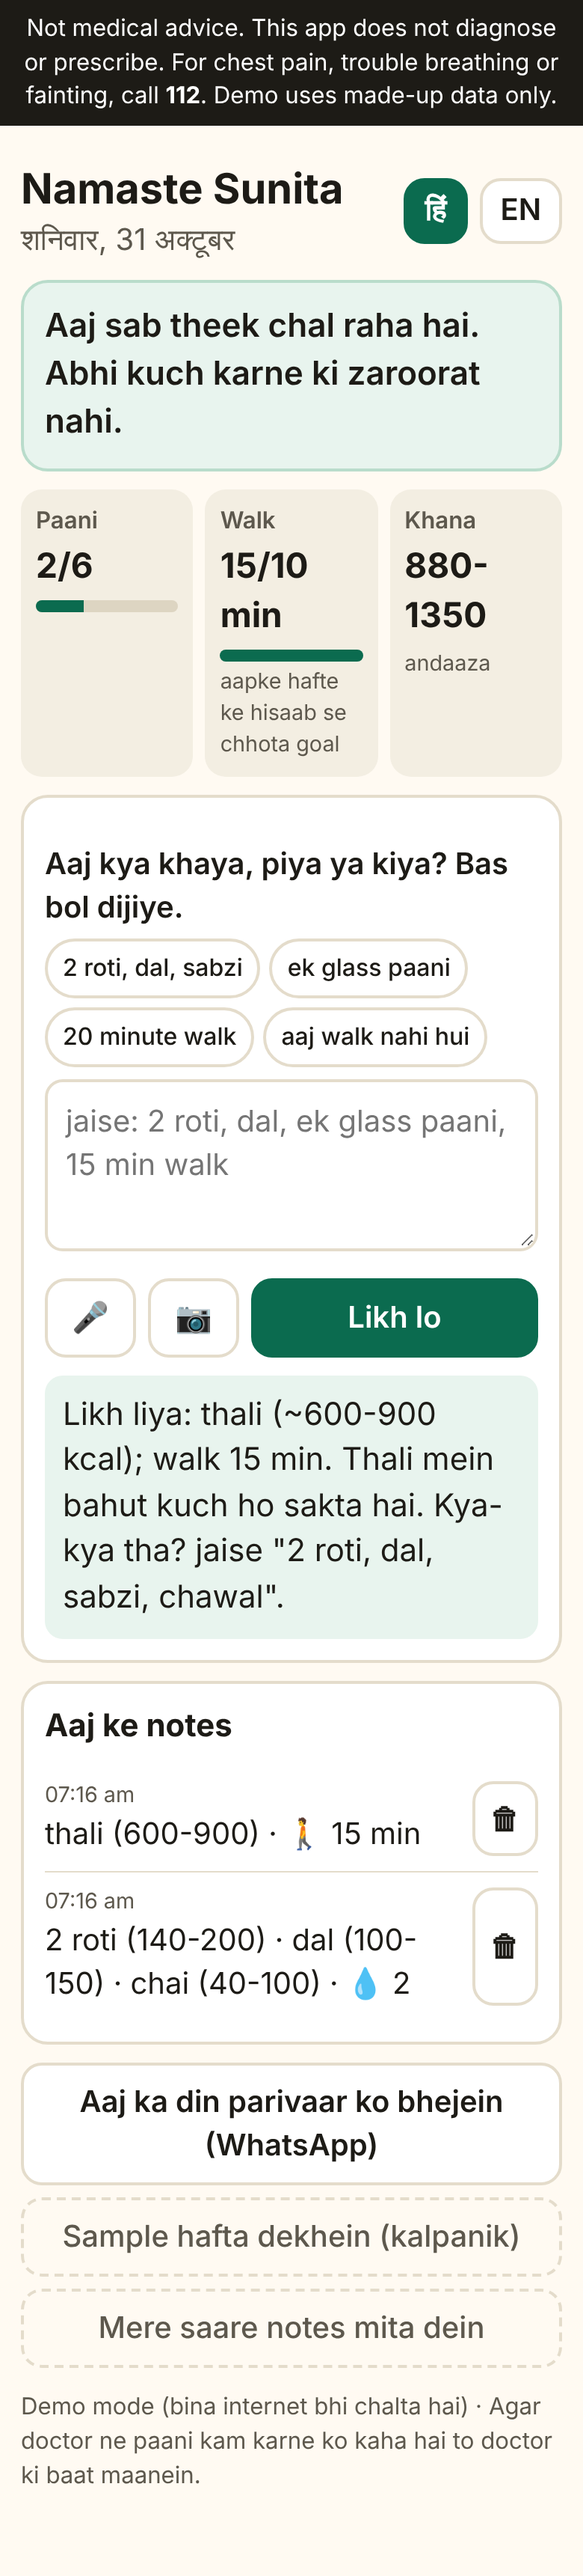
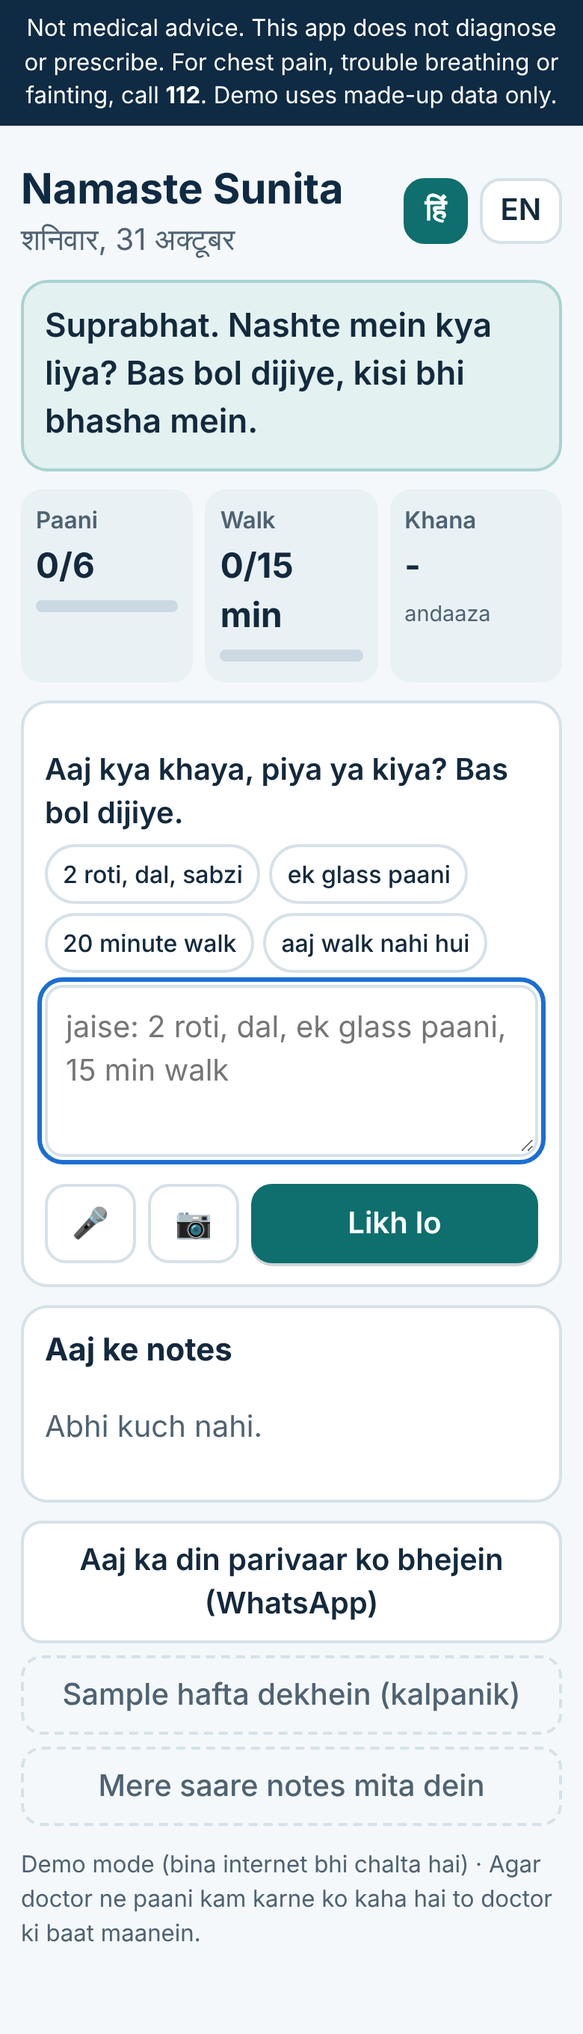
Redesign welcome page with navy/teal professional palette and value points
Claude-Session: https://claude.ai/code/session_01KefykX8PCZb4duXx1vCz83

Changed region(s): [[0.0, 0.0, 1.0, 0.989]]

diff --git a/style.css b/style.css
@@ -1,9 +1,9 @@
-:root{--bg:#fffaf2;--ink:#1d1b16;--mut:#5d584d;--card:#fff;--line:#e4dccb;--pri:#0b6b4f;--priInk:#fff;--warn:#8a4b00;--warnBg:#fff1d6;--red:#9b1c1c;--redBg:#fde8e8;--tile:#f3eee2}
+:root{--bg:#f4f8fa;--ink:#13293d;--mut:#4f6272;--card:#fff;--line:#d6e1e8;--pri:#0e6f6e;--priInk:#fff;--navy:#0f2a43;--warn:#8a4b00;--warnBg:#fff4de;--red:#9b1c1c;--redBg:#fde8e8;--tile:#e9f1f5}
 *{box-sizing:border-box}
 html{font-size:20px}
 body{margin:0;background:var(--bg);color:var(--ink);font:1rem/1.45 system-ui,-apple-system,"Segoe UI",Roboto,"Noto Sans Devanagari",sans-serif}
 .wrap{max-width:560px;margin:0 auto;padding:12px 14px 40px}
-.notice{background:#1d1b16;color:#fff;font-size:.78rem;padding:8px 12px;text-align:center}
+.notice{background:var(--navy);color:#fff;font-size:.78rem;padding:8px 12px;text-align:center}
 h1{font-size:2rem;line-height:1.15;margin:.6em 0 .2em}h1 small{font-size:1.1rem;color:var(--mut);font-weight:500}
 h2{font-size:1.05rem;margin:0 0 .5em}
 .lead{font-size:1.1rem}
@@ -21,16 +21,31 @@ button:disabled{opacity:.55}
 .top{display:flex;justify-content:space-between;align-items:center;margin:10px 0}
 .hello{font-size:1.4rem;font-weight:700}.muted,.tiny,.why{color:var(--mut)}.tiny{font-size:.78rem}.why{font-size:.72rem;margin-top:4px}
 .card{background:var(--card);border:2px solid var(--line);border-radius:18px;padding:14px;margin:12px 0}
-.nudge{background:#e8f4ee;border-color:#b9dccb;font-size:1.1rem;font-weight:600}
+.nudge{background:#e3f1f0;border-color:#a9d3d1;font-size:1.1rem;font-weight:600}
 .nudge.warn{background:var(--warnBg);border-color:#f0cf93}
 .tiles{display:grid;grid-template-columns:repeat(3,1fr);gap:8px}
 .tile{background:var(--tile);border-radius:14px;padding:10px}.tile .k{font-size:.78rem;color:var(--mut);font-weight:600}.tile .v{font-size:1.15rem;font-weight:700;margin:2px 0 6px}
-.bar{height:8px;background:#ddd5c2;border-radius:99px;overflow:hidden}.bar i{display:block;height:100%;width:0;background:var(--pri);transition:width .4s}
+.bar{height:8px;background:#cbd9e2;border-radius:99px;overflow:hidden}.bar i{display:block;height:100%;width:0;background:var(--pri);transition:width .4s}
 .row{display:flex;gap:8px;margin-top:10px}.row .primary{flex:1}
 .chips{display:flex;flex-wrap:wrap;gap:6px;margin-bottom:8px}.chips button{min-height:40px;font-size:.8rem;font-weight:500;padding:4px 10px;border-radius:99px}
-.reply{margin-top:12px;padding:12px;border-radius:12px;background:#e8f4ee;font-size:1.05rem}
+.reply{margin-top:12px;padding:12px;border-radius:12px;background:#e3f1f0;font-size:1.05rem}
 .reply.amber{background:var(--warnBg);color:#4a2800}.reply.red{background:var(--redBg);color:var(--red);font-weight:700;border:2px solid var(--red)}
 .log{list-style:none;padding:0;margin:0}.log li{display:flex;justify-content:space-between;gap:8px;padding:10px 0;border-top:1px solid var(--line)}.log li:first-child{border-top:0}
 .log .t{font-size:.72rem;color:var(--mut)}.log button{min-height:44px;min-width:44px;padding:0 10px}
 .actions{display:grid;gap:8px;margin-top:6px}
 @media (prefers-reduced-motion:reduce){*{transition:none!important}}
+
+/* ---- Welcome page ---- */
+.welcome{margin:-12px -14px 0}
+.hero{background:linear-gradient(160deg,var(--navy) 0%,#0e5a68 100%);color:#fff;padding:34px 22px 56px;border-radius:0 0 28px 28px}
+.logo{width:56px;height:56px;display:block;box-shadow:0 6px 18px rgba(0,0,0,.25);border-radius:14px}
+.brand{margin-top:14px;font-size:.85rem;letter-spacing:.14em;text-transform:uppercase;opacity:.85;font-weight:600}
+.hero h1{font-size:1.85rem;line-height:1.2;margin:.35em 0 .4em;font-weight:750}
+.hero .lead{margin:0;font-size:1.02rem;opacity:.92}
+.points{list-style:none;margin:-30px 14px 0;padding:0;display:grid;gap:8px}
+.points li{background:#fff;border:1px solid var(--line);border-radius:14px;padding:12px 14px;display:flex;flex-direction:column;box-shadow:0 2px 8px rgba(15,42,67,.06);border-left:5px solid var(--pri)}
+.points b{font-size:1rem;color:var(--navy)}.points span{font-size:.88rem;color:var(--mut)}
+.welcome .form{margin:14px}
+.full{width:100%;margin-top:6px}
+button.primary{box-shadow:0 2px 0 rgba(15,42,67,.2)}
+.hello{color:var(--navy)}

diff --git a/app.js b/app.js
@@ -6,13 +6,13 @@
   const $$ = (s) => [...document.querySelectorAll(s)];
 
   const TXT = {
-    en: { onb_lead: 'Tell me about your day, the way you would tell family. I will keep the notes.', onb_name: 'Your name (optional)', onb_start: 'Start', onb_priv: 'Your notes stay on this phone. Nothing to sign up for.',
+    en: { onb_h: 'Your day, in your own words.', p1h: 'Just speak', p1: 'Hindi, Hinglish or English. No forms.', p2h: 'Gentle reminders', p2: 'One small nudge at the right time.', p3h: 'Safe by design', p3: 'Never diagnoses. Urgent signs point to 112.', onb_lead: 'Tell me about your day, the way you would tell family. I will keep the notes.', onb_name: 'Your name (optional)', onb_start: 'Start', onb_priv: 'Your notes stay on this phone. Nothing to sign up for.',
       water: 'Water', walk: 'Walk', food: 'Food', rough: 'rough estimate', say: 'What did you eat, drink or do today? Just say it.', send: 'Log it', today: "Today's notes", empty: 'Nothing yet.',
       share: 'Share today with family (WhatsApp)', sample: 'Load sample week (made-up)', reset: 'Erase all my notes', water_note: 'If your doctor has limited your fluids, follow the doctor, not this goal.',
       hello: (n) => 'Hello' + (n ? ', ' + n : ''), ph: 'e.g. 2 roti, dal, 1 glass water, 15 min walk', thinking: 'One moment…', noPhoto: 'Photo reading needs the live AI. Please type or say what was on the plate.',
       glass: 'glasses', min: 'min', walkWhy: (g, base) => g < base ? `goal made smaller to match your week` : `goal grows slowly with you`, delConfirm: 'Remove this note?', resetConfirm: 'Erase everything on this phone?',
       live: 'Live AI', demo: 'Demo mode (works offline)', mic: 'Listening…', chips: ['2 roti, dal, sabzi', 'one glass water', '20 minute walk', 'did not walk today'] },
-    hi: { onb_lead: 'Apna din bataiye, jaise ghar walon ko batate hain. Likhne ka kaam mera.', onb_name: 'Aapka naam (zaroori nahi)', onb_start: 'Shuru karein', onb_priv: 'Aapke notes isi phone mein rehte hain. Sign-up ki zaroorat nahi.',
+    hi: { onb_h: 'Aapka din, aapki apni bhasha mein.', p1h: 'Bas boliye', p1: 'Hindi, Hinglish ya English. Koi form nahi.', p2h: 'Halke reminder', p2: 'Sahi samay par ek chhoti yaad.', p3h: 'Surakshit', p3: 'Kabhi diagnosis nahi. Zaroori lakshan par 112.', onb_lead: 'Apna din bataiye, jaise ghar walon ko batate hain. Likhne ka kaam mera.', onb_name: 'Aapka naam (zaroori nahi)', onb_start: 'Shuru karein', onb_priv: 'Aapke notes isi phone mein rehte hain. Sign-up ki zaroorat nahi.',
       water: 'Paani', walk: 'Walk', food: 'Khana', rough: 'andaaza', say: 'Aaj kya khaya, piya ya kiya? Bas bol dijiye.', send: 'Likh lo', today: 'Aaj ke notes', empty: 'Abhi kuch nahi.',
       share: 'Aaj ka din parivaar ko bhejein (WhatsApp)', sample: 'Sample hafta dekhein (kalpanik)', reset: 'Mere saare notes mita dein', water_note: 'Agar doctor ne paani kam karne ko kaha hai to doctor ki baat maanein.',
       hello: (n) => 'Namaste' + (n ? ' ' + n : ''), ph: 'jaise: 2 roti, dal, ek glass paani, 15 min walk', thinking: 'Ek minute…', noPhoto: 'Photo samajhne ke liye live AI chahiye. Kripya likh ya bol kar bataiye thali mein kya tha.',

diff --git a/index.html b/index.html
@@ -12,17 +12,28 @@
 
 <main id="app" class="wrap">
   <!-- Onboarding: the first two minutes -->
-  <section id="onboard" hidden>
-    <h1>Namaste 🙏<br><small>Dinchariya</small></h1>
-    <p class="lead" data-t="onb_lead">Tell me about your day, the way you would tell family. I will keep the notes.</p>
-    <label for="name" data-t="onb_name">Your name (optional)</label>
-    <input id="name" autocomplete="off" maxlength="30">
-    <div class="seg" role="group" aria-label="Language">
-      <button data-lang="hi" class="on">हिंदी / Hinglish</button>
-      <button data-lang="en">English</button>
+  <section id="onboard" class="welcome" hidden>
+    <div class="hero">
+      <svg class="logo" viewBox="0 0 48 48" aria-hidden="true"><rect width="48" height="48" rx="12" fill="#fff"/><path d="M24 37s-11-6.6-11-15a6.3 6.3 0 0 1 11-4.2A6.3 6.3 0 0 1 35 22c0 8.4-11 15-11 15z" fill="#0e7c7b"/><path d="M14 25h6l2-4 3 7 2-3h7" fill="none" stroke="#fff" stroke-width="2.2" stroke-linecap="round" stroke-linejoin="round"/></svg>
+      <div class="brand">Dinchariya</div>
+      <h1 data-t="onb_h">Your day, in your own words.</h1>
+      <p class="lead" data-t="onb_lead">Tell me about your day, the way you would tell family. I will keep the notes.</p>
     </div>
-    <button id="start" class="big primary" data-t="onb_start">Start</button>
-    <p class="tiny" data-t="onb_priv">Your notes stay on this phone. Nothing to sign up for.</p>
+    <ul class="points">
+      <li><b data-t="p1h">Just speak</b><span data-t="p1">Hindi, Hinglish or English. No forms.</span></li>
+      <li><b data-t="p2h">Gentle reminders</b><span data-t="p2">One small nudge at the right time.</span></li>
+      <li><b data-t="p3h">Safe by design</b><span data-t="p3">Never diagnoses. Urgent signs point to 112.</span></li>
+    </ul>
+    <div class="card form">
+      <label for="name" data-t="onb_name">Your name (optional)</label>
+      <input id="name" autocomplete="off" maxlength="30">
+      <div class="seg" role="group" aria-label="Language">
+        <button data-lang="hi" class="on">हिंदी / Hinglish</button>
+        <button data-lang="en">English</button>
+      </div>
+      <button id="start" class="big primary full" data-t="onb_start">Start</button>
+      <p class="tiny" data-t="onb_priv">Your notes stay on this phone. Nothing to sign up for.</p>
+    </div>
   </section>
 
   <!-- Daily screen -->
